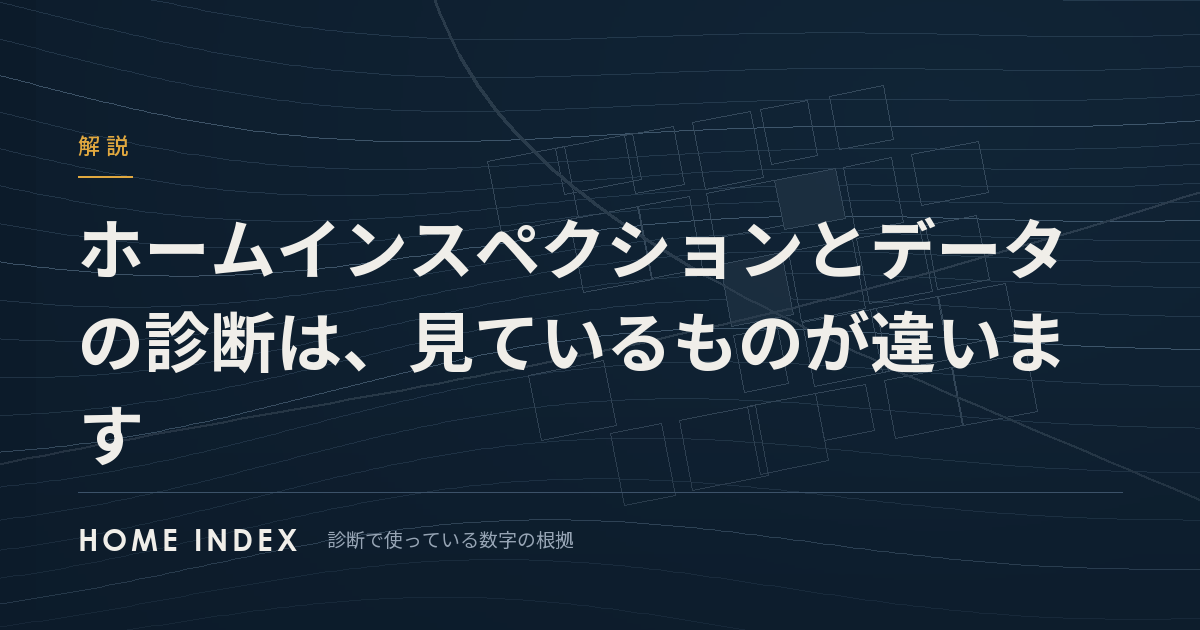
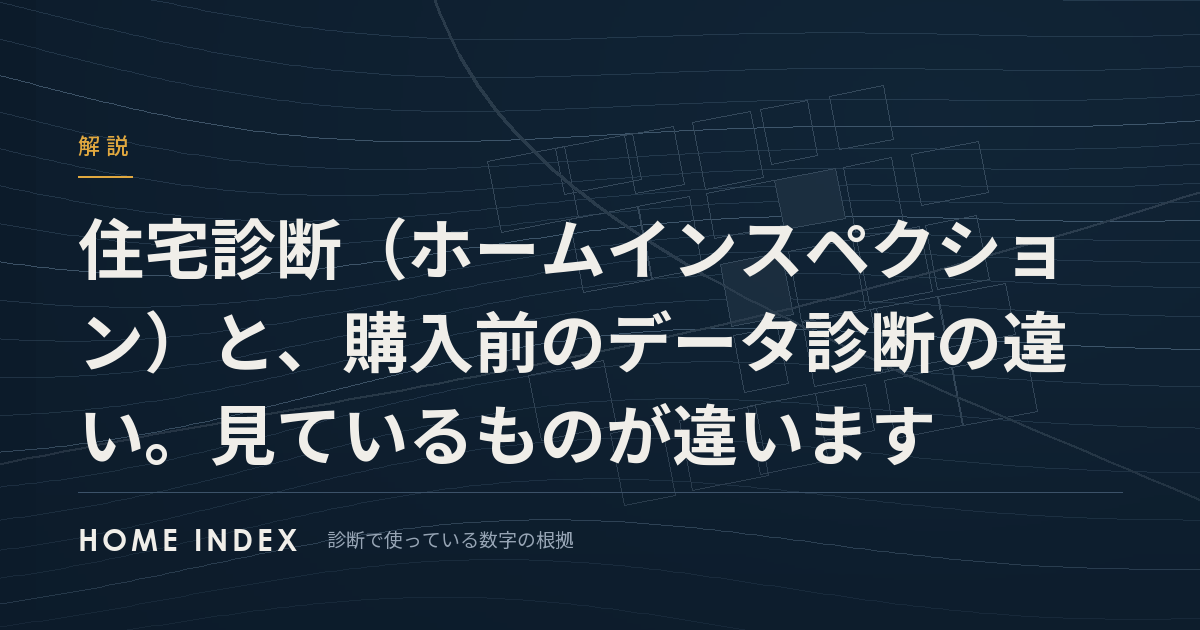
Tell Google what the top page is and what the brand is called
The top page had no search impressions in 90 days. The h1 now carries
"住宅購入の無料診断ツール HOME INDEX（ホームインデックス）" under the
catchphrase. WebSite and Organization get alternate names, and
Organization links the Instagram, TikTok and Threads accounts. The
share title and description cover houses, condos and land. Every
article ends with a line linking the top page as the free home
purchase diagnosis tool. The inspection article's title now starts
with 住宅診断, the word people use when they look for an inspector.

Changed region(s): [[0.0617, 0.4825, 0.8942, 0.6032], [0.0617, 0.3317, 0.8942, 0.4524], [0.0617, 0.6333, 0.7708, 0.754]]

diff --git a/app.py b/app.py
@@ -2459,8 +2459,8 @@ LP = """<!doctype html><html lang="ja"><head>
 <link rel="canonical" href="CANONICAL_URL">
 <meta property="og:type" content="website">
 <meta property="og:site_name" content="HOME INDEX">
-<meta property="og:title" content="この家、かっていい？｜中古戸建を無料で100点診断 HOME INDEX">
-<meta property="og:description" content="気になる中古戸建の価格・災害リスク・住宅ローン返済を、国土交通省の成約データなど公的データから100点で採点します。会員登録不要・無料。物件は売りません。">
+<meta property="og:title" content="この家、かっていい？｜戸建・マンション・土地を無料で100点診断 HOME INDEX">
+<meta property="og:description" content="気になる戸建・マンション・土地の価格・災害リスク・住宅ローン返済を、国土交通省の成約データなど公的データから100点で採点します。会員登録不要・無料。物件は売りません。">
 <meta property="og:url" content="CANONICAL_URL">
 <meta property="og:image" content="CANONICAL_URLstatic/ogp.png?v=1">
 <meta property="og:image:width" content="1200">
@@ -2469,8 +2469,12 @@ LP = """<!doctype html><html lang="ja"><head>
 <script type="application/ld+json">
 {"@context":"https://schema.org","@graph":[
 {"@type":"Organization","@id":"CANONICAL_URL#org","name":"HOME INDEX","url":"CANONICAL_URL",
- "logo":"CANONICAL_URLstatic/icon-180.png"},
+ "alternateName":["HOMEINDEX","ホームインデックス","ホーム インデックス"],
+ "logo":"CANONICAL_URLstatic/icon-180.png",
+ "sameAs":["https://www.instagram.com/home_index_/","https://www.tiktok.com/@home_index",
+           "https://www.threads.com/@home_index_"]},
 {"@type":"WebSite","@id":"CANONICAL_URL#site","name":"HOME INDEX","url":"CANONICAL_URL",
+ "alternateName":["HOMEINDEX","ホームインデックス","ホーム インデックス"],
  "inLanguage":"ja","publisher":{"@id":"CANONICAL_URL#org"}},
 {"@type":"WebApplication","name":"HOME INDEX 購入診断","url":"CANONICAL_URLbuy",
  "applicationCategory":"FinanceApplication","operatingSystem":"Web","inLanguage":"ja",
@@ -2591,6 +2595,10 @@ a{color:inherit}
   font-size:clamp(26px,7.9vw,58px); letter-spacing:-.02em; line-height:1.18;
   white-space:nowrap; margin:0 0 14px;
 }
+.hero h1 .h1-sub{display:block; margin-top:12px; white-space:normal;
+  font-size:clamp(12px,3.3vw,15px); font-weight:700; letter-spacing:.04em;
+  line-height:1.6; color:var(--paper-dim)}
+.hero h1 .h1-sub .nw{white-space:nowrap}
 .hero .tag{
   font-family:"Zen Old Mincho",serif; font-weight:600;
   font-size:clamp(16px,4.2vw,22px); letter-spacing:.02em;
@@ -2898,7 +2906,9 @@ LP_MENU_PLACEHOLDER
   <span class="pin-label" aria-hidden="true">検討中の物件</span>
   <div class="wrap">
     <p class="eyebrow">住宅購入 セカンドオピニオン</p>
-    <h1>この家、かっていい？</h1>
+    <!-- h1 にカテゴリ語とブランドの読みを入れる（2026-11-21）。キャッチだけだと、
+         Google にとって何のサイトか分からず、トップの表示が90日で0回だった。 -->
+    <h1>この家、かっていい？<span class="h1-sub"><span class="nw">住宅購入の無料診断ツール</span> <span class="nw">HOME INDEX（ホームインデックス）</span></span></h1>
     <p class="tag">買う前に、<em>データで答え合わせ。</em></p>
     <!-- 不安の列挙は下のチェックリストが、中立性は結果サンプル直後の帯が
          それぞれ担っている。ここは問いを1つと、何をするのかだけに絞る。 -->
@@ -4514,7 +4524,12 @@ def guide_page(slug):
               '</a>'
             + (f'　・　<a href="{g.cta2_href}">{html.escape(g.cta2_text)}</a>'
                if getattr(g, "cta2_href", "") else "")
-            + '</p></div>'
+            + '</p>'
+            # 記事の評価をトップへ流す（2026-11-21）。トップへのリンクが文中に
+            # 無く、トップは検索での表示が90日で0回だった。言葉でつなぐ。
+            '<p>HOME INDEX（ホームインデックス）は、戸建・マンション・土地を'
+            '購入前に公的データで100点採点する、<a href="/">住宅購入の無料'
+            '診断ツール</a>です。</p></div>'
             + _share_row(base, g))
     return _guide_shell(g.title, g.description, f"/guide/{g.slug}", head, body,
                         og=_guide_og(base, g))

diff --git a/src/guides.py b/src/guides.py
@@ -4126,13 +4126,16 @@ _INSPECTION = Guide(
     cta_text="住所から診断する",
     cta2_href="/sample",
     cta2_text="見本の結果を見る",
-    title="ホームインスペクションとデータの診断は、見ているものが違います",
+    # 2026-11-21 タイトルに「住宅診断」を入れた。この語で探す人の大半は
+    # 建物の検査（ホームインスペクション）を探している。トップで名乗らず、
+    # 違いを説明するこの記事で受ける。
+    title="住宅診断（ホームインスペクション）と、購入前のデータ診断の違い。見ているものが違います",
     description=(
-        "中古住宅の「診断」には、建物を見る建物状況調査と、公的データで場所や価格"
-        "を見る診断があります。法律が定める調査の対象部位、重要事項説明での扱い、"
-        "どちらにも映らないものを条文つきでまとめました。"),
+        "中古住宅の住宅診断には、建物を見るホームインスペクション（建物状況調査）と、"
+        "公的データで場所や価格を見る診断があります。調査の対象部位、重要事項説明"
+        "での扱い、どちらにも映らないものを条文つきでまとめました。"),
     published="2026-10-08",
-    updated="2026-10-08",
+    updated="2026-11-21",
     lead=(
         "「住宅の診断」と検索すると、出てくるのはホームインスペクション、つまり"
         "建物の検査です。この診断はそれとは別物で、<b>建物の中は一切見ていません。</b>"
